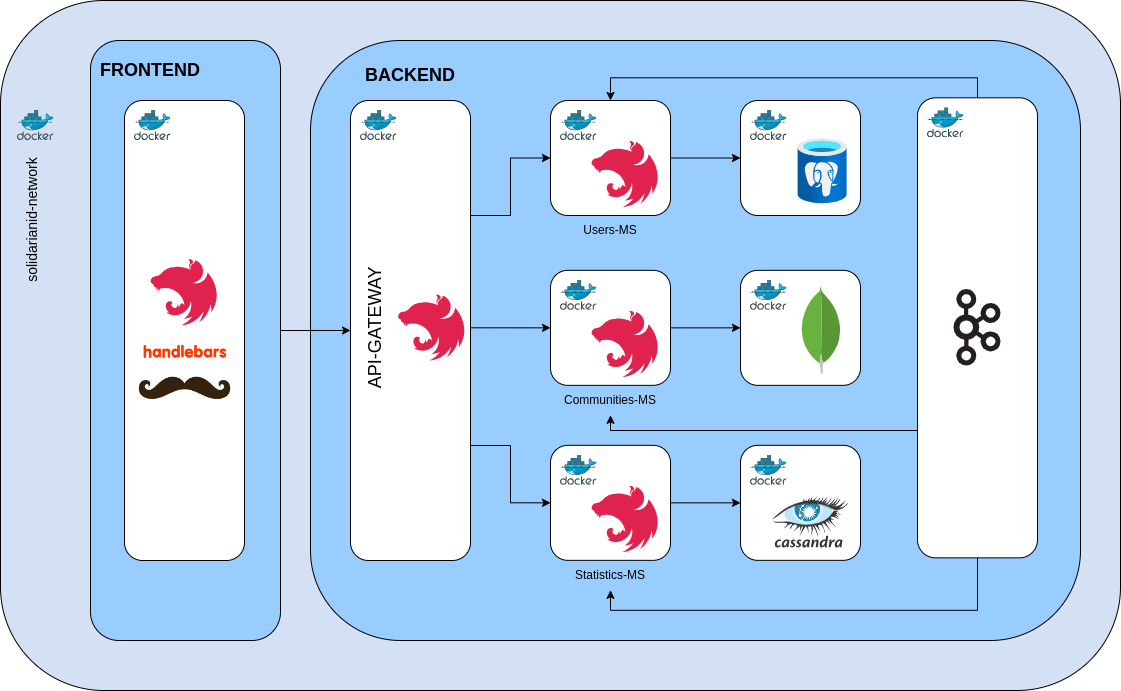
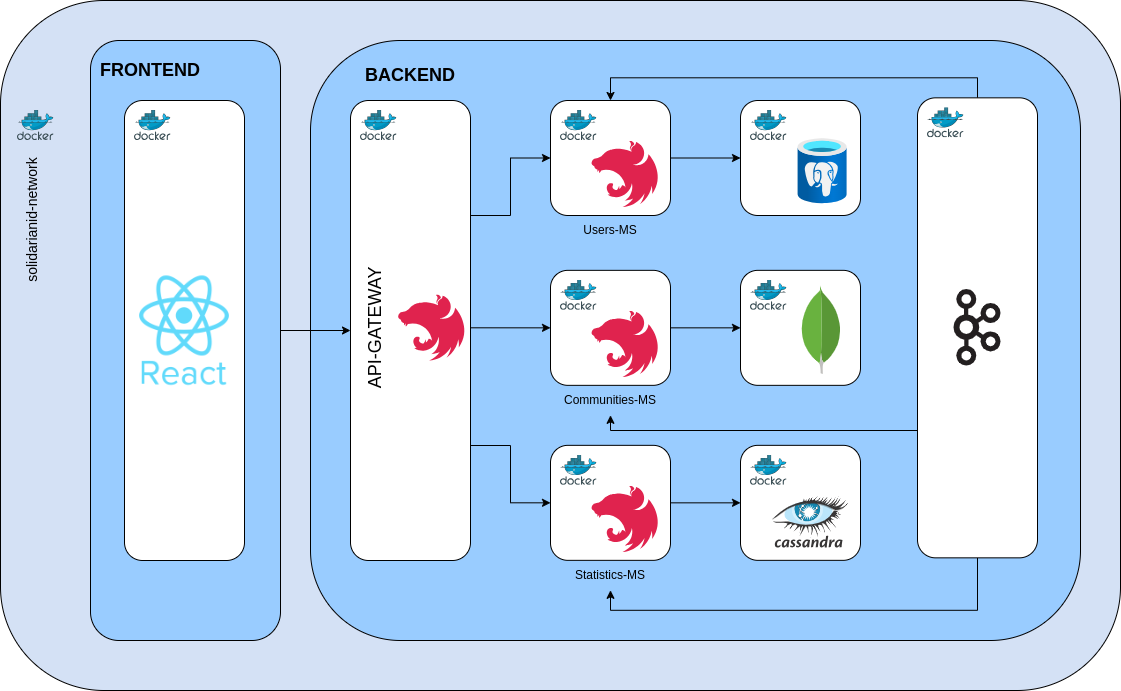
updating readmes

Changed region(s): [[0.1249, 0.3647, 0.2186, 0.5774]]

diff --git a/README.md b/README.md
@@ -33,7 +33,7 @@ make help
 ### Frontend
 
 Location: `frontend/`  
-URL: [http://localhost:3005](http://localhost:3005)
+URL: [http://localhost:5173](http://localhost:5173)
 
 ### Backend
 
@@ -45,6 +45,22 @@ API-Gateway URL: [http://localhost:3000/api/v1](http://localhost:3000/api/v1)
 - **User Microservice Base URL:** [http://localhost:3001/users](http://localhost:3001/users)
 - **Community Microservice Base URL:** [http://localhost:3002/communities](http://localhost:3002/communities)
 - **Statistics Microservice Base URL:** [http://localhost:3003/statistics](http://localhost:3003/statistics)
+
+## Test Data
+
+To load test data into the application, first ensure you have executed `make run-prod`. Then, run the following script:
+
+```sh
+cd scripts/test_data_loader
+python3 test_data_loader.py
+```
+
+The test data created can be found in the `scripts/test_data_loader/data/*.json`.
+
+Admin user credentials:
+
+- **Email:** `admin@admin.com`
+- **Password:** `123456Test*`
 
 ## Public Documentation
 
@@ -166,84 +182,6 @@ graph TB
     CommEventsService -->|"Publishes events"| Kafka
     UserMS -->|"Subscribes to events"| Kafka
     StatMS -->|"Subscribes to events"| Kafka
-```
-
-## Frontend Software Architecture Diagram
-
-```mermaid
-graph TB
-    User((External User))
-    Admin((Admin User))
-
-    subgraph "Frontend Application"
-        direction TB
-        FrontendApp["Frontend App<br>(NestJS)"]
-
-        subgraph "Core Components"
-            AppController["App Controller<br>(NestJS Controller)"]
-            AppService["App Service<br>(NestJS Service)"]
-            ViewEngine["View Engine<br>(Handlebars)"]
-            HelperService["Handlebars Helpers<br>(NestJS Service)"]
-        end
-
-        subgraph "Feature Modules"
-            direction LR
-            subgraph "Reports Module"
-                ReportController["Report Controller<br>(NestJS Controller)"]
-                ReportService["Report Service<br>(NestJS Service)"]
-            end
-
-            subgraph "Statistics Module"
-                StatController["Statistics Controller<br>(NestJS Controller)"]
-                StatService["Statistics Service<br>(NestJS Service)"]
-            end
-
-            subgraph "Validation Module"
-                ValidController["Validation Controller<br>(NestJS Controller)"]
-                ValidService["Validation Service<br>(NestJS Service)"]
-            end
-        end
-
-        subgraph "Client-Side Components"
-            ChartJS["Chart Component<br>(Chart.js)"]
-            ReportGen["Report Generator<br>(JavaScript)"]
-            Validation["Validation Logic<br>(JavaScript)"]
-        end
-    end
-
-    subgraph "External Microservices"
-        CommunityMS["Community Microservice<br>(External Service)"]
-        StatisticsMS["Statistics Microservice<br>(External Service)"]
-    end
-
-    %% User interactions
-    User -->|"Accesses"| FrontendApp
-    Admin -->|"Manages"| FrontendApp
-
-    %% Frontend internal connections
-    FrontendApp -->|"Routes to"| AppController
-    AppController -->|"Uses"| AppService
-    AppController -->|"Renders with"| ViewEngine
-    ViewEngine -->|"Uses"| HelperService
-
-    %% Module connections
-    AppController -->|"Routes to"| ReportController
-    AppController -->|"Routes to"| StatController
-    AppController -->|"Routes to"| ValidController
-
-    ReportController -->|"Uses"| ReportService
-    StatController -->|"Uses"| StatService
-    ValidController -->|"Uses"| ValidService
-
-    %% Client-side connections
-    ViewEngine -->|"Serves"| ChartJS
-    ViewEngine -->|"Serves"| ReportGen
-    ViewEngine -->|"Serves"| Validation
-
-    %% External service connections
-    ReportService -->|"Fetches data"| CommunityMS
-    ValidService -->|"Fetches data"| CommunityMS
-    StatService -->|"Fetches statistics"| StatisticsMS
 ```
 
 ## Requirements

diff --git a/frontend/README.md b/frontend/README.md
@@ -1,54 +1,58 @@
-# React + TypeScript + Vite
+# Frontend SolidarianID
 
-This template provides a minimal setup to get React working in Vite with HMR and some ESLint rules.
+Frontend for the SolidarianID project.
 
-Currently, two official plugins are available:
+## Development
 
-- [@vitejs/plugin-react](https://github.com/vitejs/vite-plugin-react/blob/main/packages/plugin-react/README.md) uses [Babel](https://babeljs.io/) for Fast Refresh
-- [@vitejs/plugin-react-swc](https://github.com/vitejs/vite-plugin-react-swc) uses [SWC](https://swc.rs/) for Fast Refresh
+To start the development environment locally, run:
 
-## Expanding the ESLint configuration
-
-If you are developing a production application, we recommend updating the configuration to enable type-aware lint rules:
-
-```js
-export default tseslint.config({
-  extends: [
-    // Remove ...tseslint.configs.recommended and replace with this
-    ...tseslint.configs.recommendedTypeChecked,
-    // Alternatively, use this for stricter rules
-    ...tseslint.configs.strictTypeChecked,
-    // Optionally, add this for stylistic rules
-    ...tseslint.configs.stylisticTypeChecked,
-  ],
-  languageOptions: {
-    // other options...
-    parserOptions: {
-      project: ['./tsconfig.node.json', './tsconfig.app.json'],
-      tsconfigRootDir: import.meta.dirname,
-    },
-  },
-})
+```bash
+npm install
+npm run dev
 ```
 
-You can also install [eslint-plugin-react-x](https://github.com/Rel1cx/eslint-react/tree/main/packages/plugins/eslint-plugin-react-x) and [eslint-plugin-react-dom](https://github.com/Rel1cx/eslint-react/tree/main/packages/plugins/eslint-plugin-react-dom) for React-specific lint rules:
+This will start the app at:
 
-```js
-// eslint.config.js
-import reactX from 'eslint-plugin-react-x'
-import reactDom from 'eslint-plugin-react-dom'
+[http://localhost:5173](http://localhost:5173)
 
-export default tseslint.config({
-  plugins: {
-    // Add the react-x and react-dom plugins
-    'react-x': reactX,
-    'react-dom': reactDom,
-  },
-  rules: {
-    // other rules...
-    // Enable its recommended typescript rules
-    ...reactX.configs['recommended-typescript'].rules,
-    ...reactDom.configs.recommended.rules,
-  },
-})
+The frontend expects the backend API to be running at [http://localhost:3000](http://localhost:3000).
+
+## Build
+
+To create a production-ready build, run:
+
+```bash
+npm run build
 ```
+
+To preview the production build locally, run:
+
+```bash
+npm run preview
+```
+
+This will serve the built application at:
+
+[http://localhost:4173](http://localhost:4173)
+
+## Useful Commands
+
+| Command                   | Description                      |
+| ------------------------- | -------------------------------- |
+| `npm run dev`             | Start the development server     |
+| `npm run build`           | Build the app for production     |
+| `npm run preview`         | Preview the production build     |
+| `npm run lint:fix`        | Run ESLint checks and fix issues |
+| `npm run prettier:format` | Format code using Prettier       |
+
+## Features
+
+- User Profiles with support for follow/unfollow
+- Communities, Causes, and Actions management
+- Contributions to actions
+- Authentication with JWT
+- GraphQL integration for optimized user fetching
+- Pagination for lists
+- Responsive UI built with React Bootstrap and Lucide
+
+> **Note:** Make sure the backend is running before starting the frontend.
